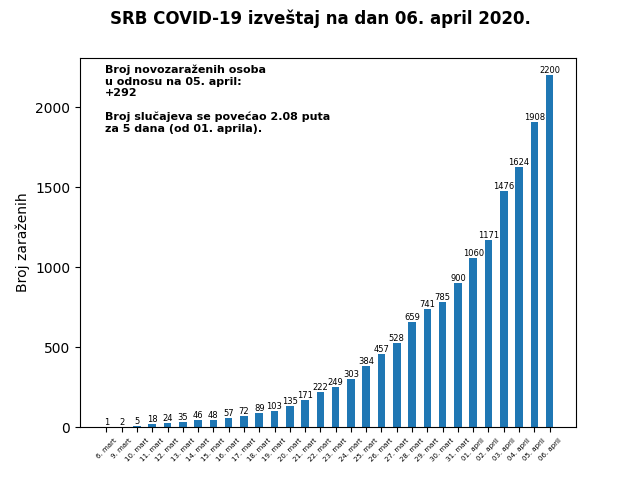
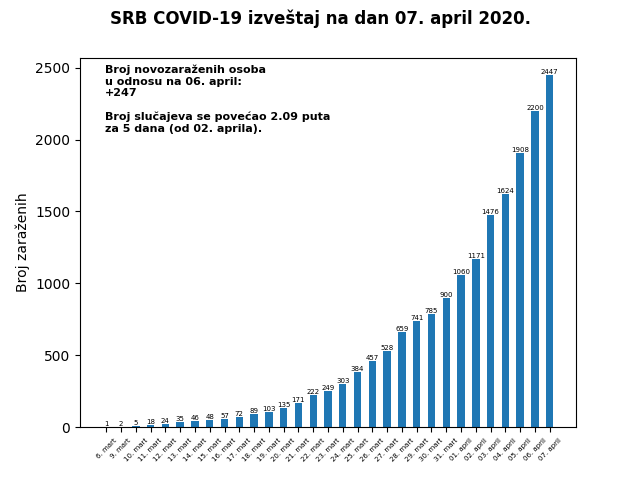
Changed main.py; updated data.json and report

diff --git a/main.py b/main.py
@@ -216,7 +216,7 @@ if "Информације" or "Информацијa" in \
                     height = rect.get_height()
                     plt.text(rect.get_x() + rect.get_width()/2.0,
                              height, '%d' % int(height), ha='center',
-                             va='bottom', fontsize=6)
+                             va='bottom', fontsize=5)
 
                 # Determine coefficient of duplication
                 determine_coeff_dict = double_coefficient(data)
